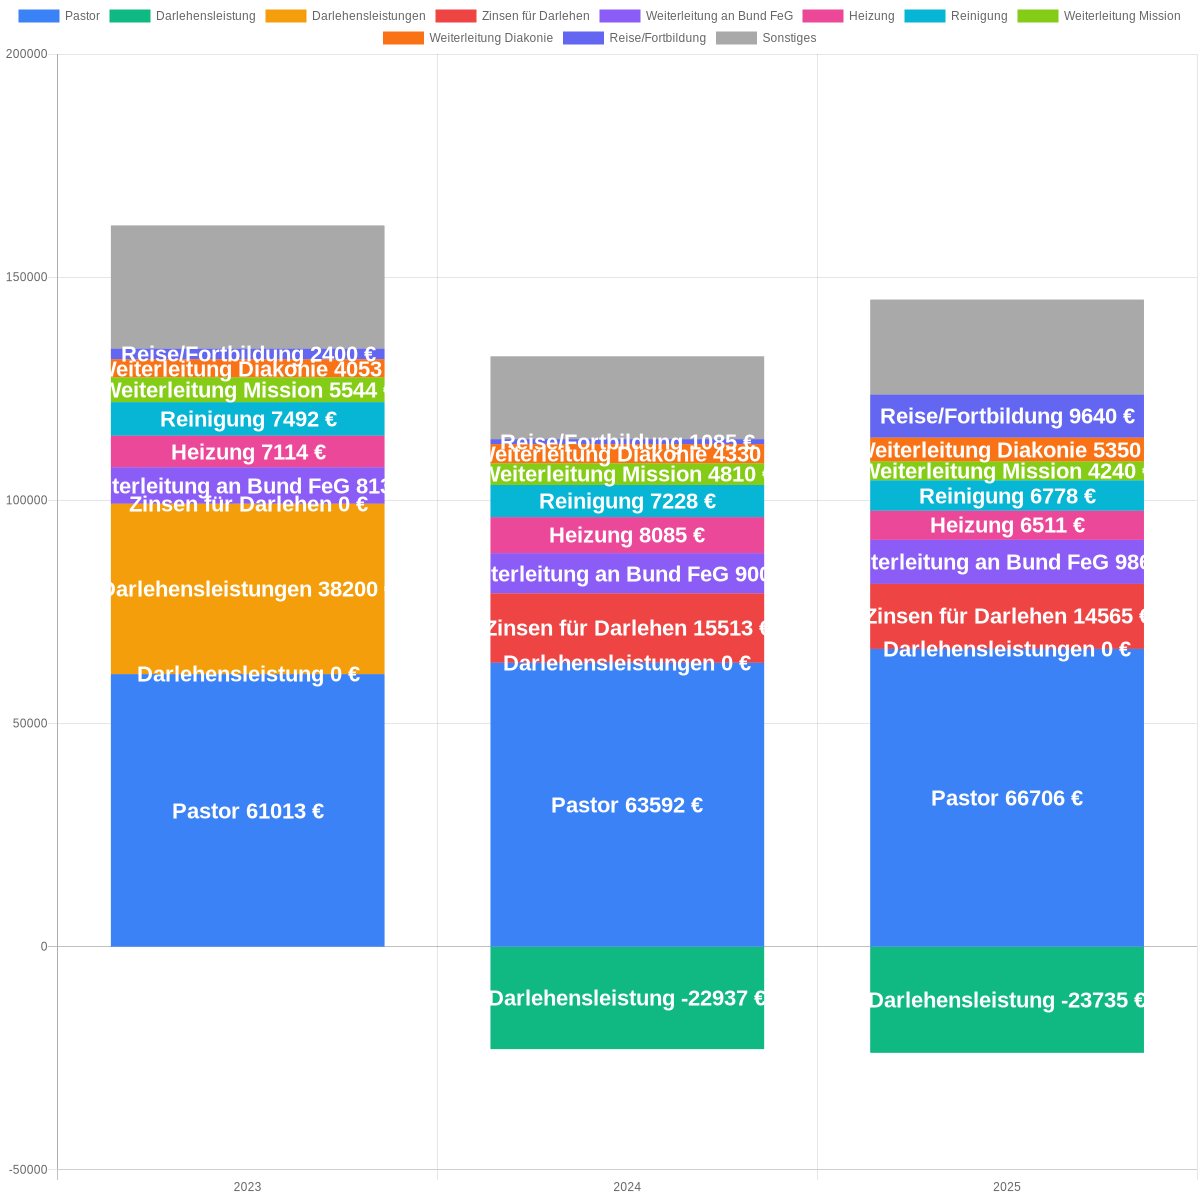
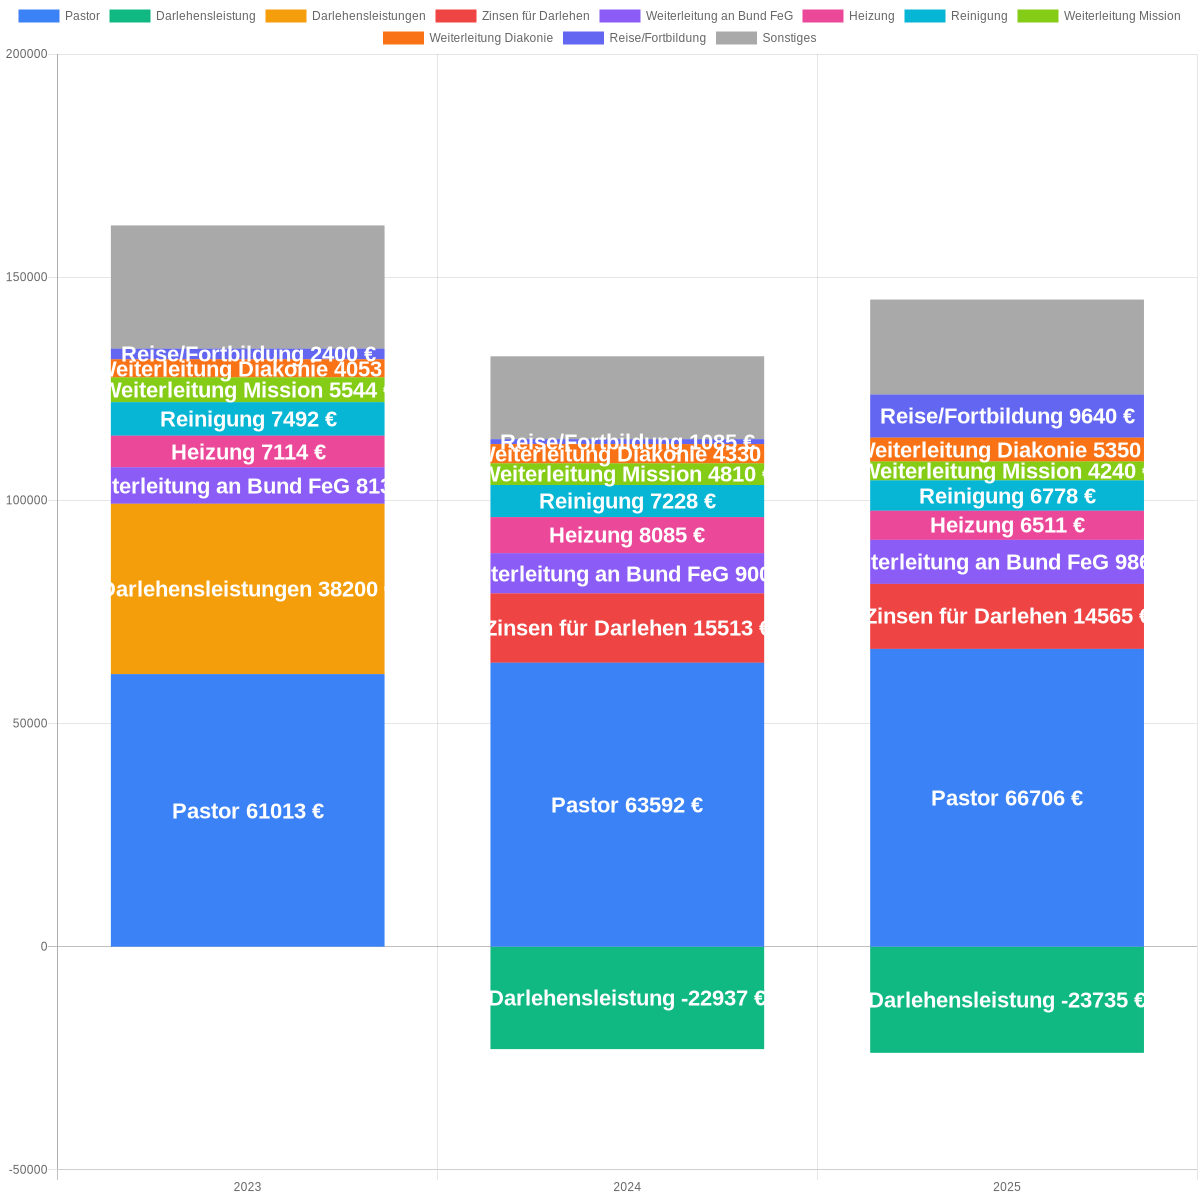
bug: Darlehensleistung:0€ ist jetzt weg

diff --git a/generate-presentation.js b/generate-presentation.js
@@ -997,7 +997,17 @@ async function createExpensesChart(profitLossReports, years) {
     };
     // Wenn Kategorie in Top-10, aktiviere Datalabels nur für dieses Dataset
     ds.datalabels = {
-      display: true,
+      // Nur anzeigen, wenn der Wert != 0 (vermeidet z.B. "Darlehensleistungen 0 €")
+      display: function(context) {
+        try {
+          const v = context && context.dataset && context.dataset.data && typeof context.dataIndex === 'number'
+            ? context.dataset.data[context.dataIndex]
+            : (context && context.parsed ? context.parsed : 0);
+          return Math.abs(v || 0) > 0.5; // Schwelle: >0.5
+        } catch (e) {
+          return false;
+        }
+      },
       color: '#ffffff',
       font: { weight: 'bold', size: 22 },
       formatter: function(value, context) {
